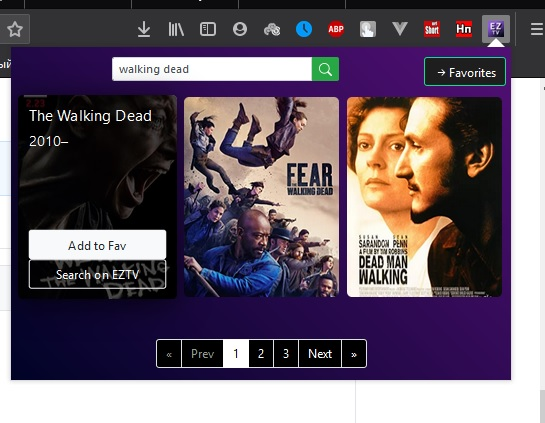
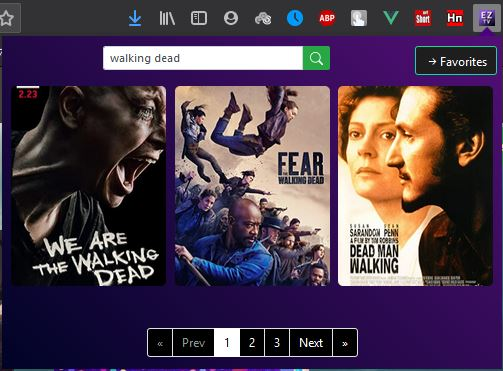
added locales uk/en/ru , fixed css for google chrome

diff --git a/src/views/SearchTorrent.vue b/src/views/SearchTorrent.vue
@@ -1,17 +1,16 @@
 <template>
   <div>
     <div class="nav-buttons">
-          <b-button variant="success" class="fav-btn"
-     @click="onClickBack"
-     ><b-icon icon="arrow-left-short
-"></b-icon>Back</b-button>
-<span>found: {{totalResults}}</span>
-          <b-button variant="success" class="fav-btn"
-     @click="onClickFav"
-     ><b-icon icon="arrow-right-short
-"></b-icon>Favorites</b-button>
+      <b-button variant="success" class="fav-btn" size="sm" @click="onClickBack">
+        <b-icon icon="arrow-left-short"></b-icon>Back
+      </b-button>
+      <span>found: {{totalResults}}</span>
+      <b-button variant="success" class="fav-btn" size="sm" @click="onClickFav">
+        <b-icon icon="arrow-right-short
+"></b-icon>Favorites
+      </b-button>
     </div>
-    <Shows/>
+    <Shows />
   </div>
 </template>
 
@@ -45,10 +44,13 @@ export default {
   margin-bottom: 5px;
 }
 .fav-btn {
-   background-color: #1e1e1e;
-border-color: #10dd98;
+  background-color: #1e1e1e;
+  border-color: #10dd98;
+  margin-top: 10px;
+margin-left: 5px;
+margin-right: 5px;
 }
 span {
-  color:#ffff;
+  color: #ffff;
 }
 </style>

diff --git a/src/components/MovieItem.vue b/src/components/MovieItem.vue
@@ -8,14 +8,14 @@
       </div>
       <div class="movie-item-controls column no-gutters">
         <div class="col ">
-          <BButton size="md"
+          <BButton size="sm"
           block variant="outline-light"
           @click="addFav"
           > {{ AddOrDelete}}</BButton>
         </div>
         <div class="col ">
           <BButton
-            size="md"
+            size="sm"
             block
             variant="outline-light"
             @click="searchTorr"

diff --git a/src/components/SearchForm.vue b/src/components/SearchForm.vue
@@ -1,6 +1,7 @@
 <template>
   <div>
-      <b-form inline class="form">
+      <b-form inline class="form"
+      >
     <!-- <label class="sr-only" for="inline-form-input-name">Name</label> -->
     <b-input
       id="inline-form-input-movie"

diff --git a/src/views/Main.vue b/src/views/Main.vue
@@ -4,6 +4,7 @@
 <searchForm class="srch-frm"/>
      <b-button variant="success" class="fav-btn"
      @click="onClick"
+     size="sm"
      ><b-icon icon="arrow-right-short
 "></b-icon>Favorites</b-button>
     </div>

diff --git a/src/views/Favorites.vue b/src/views/Favorites.vue
@@ -2,6 +2,7 @@
   <div>
     <b-button variant="success" class="fav-btn"
      @click="onClick"
+     size="sm"
      ><b-icon icon="arrow-left-short
 "></b-icon>Back</b-button>
     <FavMovies/>
